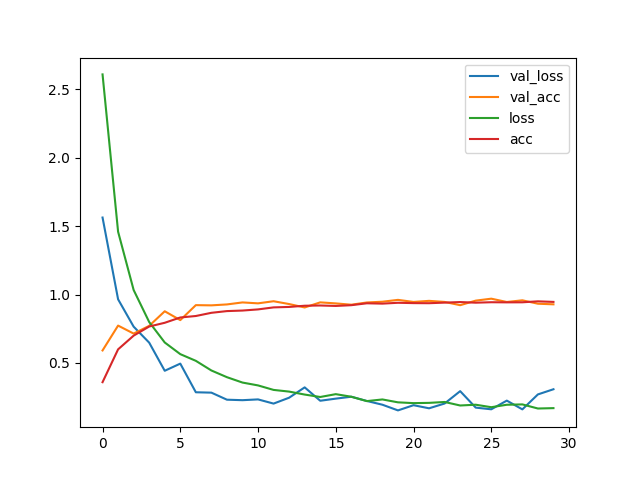
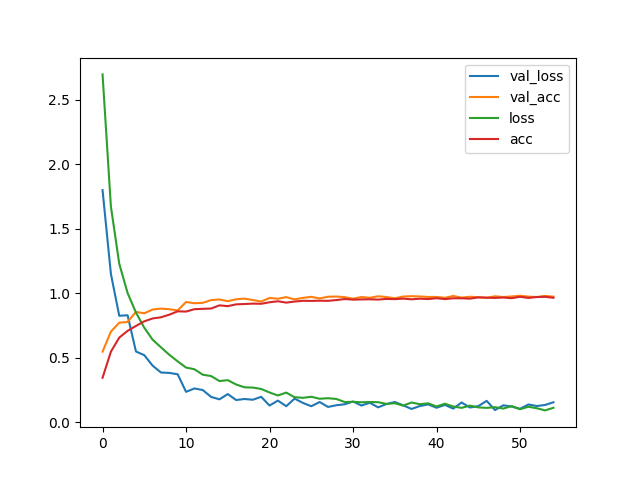
update image

diff --git a/blog/2019-01-14-keras-cnn-traffic/index.md b/blog/2019-01-14-keras-cnn-traffic/index.md
@@ -17,15 +17,11 @@ traffic
 
 ### 主要功能点：数据加载，预处理，图像增强, 预测，数据可视化
 
+### 发现训练集准确率小于验证集准确率，出现了欠拟合，取消 Dropout 层后，训练集和测试集准确率都达到 97%
+
 不使用 dropout
 
 ![](./no_dropout.png)
-
-使用 dropout
-
-![](./dropout.png)
-
-### 发现训练集准确率小于验证集准确率，出现了欠拟合，取消 Dropout 层后，训练集和测试集准确率都达到 97%
 
 ```
 from keras.preprocessing.image import ImageDataGenerator
